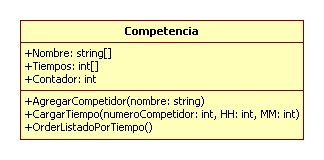
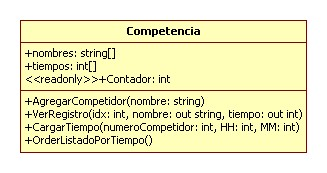
correccion ejercicio 1

Changed region(s): [[0.0617, 0.0938, 0.9568, 0.9062]]

diff --git a/Guia12.2/Ejercicio1_Rally/Models/Competencia.cs b/Guia12.2/Ejercicio1_Rally/Models/Competencia.cs
@@ -8,19 +8,35 @@ namespace Ejercicio1_Rally.Models
 {
     public class Competencia
     {
-        public string[] Nombres = new string[100];
-        public int [] Tiempos= new int[100];
-        public int Contador = 0;
+        string[] nombres = new string[100];
+        int [] tiempos= new int[100];
+        public int Contador { get; private set; }
+
+        public Competencia()
+        {
+            Contador = 0;
+        }
+
+        public void VerRegistro(int idx,out string nombre,out int tiempo)
+        {
+            tiempo = 0;
+            nombre = "";
+            if (idx >= 0 && idx < Contador)
+            {
+                nombre = nombres[idx];
+                tiempo = tiempos[idx];
+            }
+        }
 
         public void AgregarCompetidor(string nombre)
         {
-            Nombres[Contador] = nombre;
+            nombres[Contador] = nombre;
             Contador++;
         }
 
         public void CargarTiempo(int numeroCompetidor, int HH, int MM)
         {
-            Tiempos[numeroCompetidor] = HH*60+MM;
+            tiempos[numeroCompetidor] = HH*60+MM;
         }
 
         public void OrderListadoPorTiempo()
@@ -29,18 +45,23 @@ namespace Ejercicio1_Rally.Models
             {
                 for (int sig = act+1; sig < Contador; sig++)
                 {
-                    if (Tiempos[act] > Tiempos[sig])
+                    if (tiempos[act] > tiempos[sig])
                     {
-                        string nombre = Nombres[act];
-                        Nombres[act] = Nombres[sig];
-                        Nombres[sig] = nombre;
-
-                        int tiempo = Tiempos[act];
-                        Tiempos[act] = Tiempos[sig];
-                        Tiempos[sig] = tiempo;
+                        Intercambiar(act, sig);
                     }
                 }
             }
+        }
+
+        void Intercambiar(int act, int sig)
+        {
+            string nombre = nombres[act];
+            nombres[act] = nombres[sig];
+            nombres[sig] = nombre;
+
+            int tiempo = tiempos[act];
+            tiempos[act] = tiempos[sig];
+            tiempos[sig] = tiempo;
         }
     }
 }

diff --git a/Guia12.2/Ejercicio1_Rally/FormPrincipal.cs b/Guia12.2/Ejercicio1_Rally/FormPrincipal.cs
@@ -84,10 +84,14 @@ namespace Ejercicio1_Rally
             fVer.lbxResultados.Items.Clear();
             for (int n = 0; n < competencia.Contador; n++)
             {
-                int tiempo =  competencia.Tiempos[n];
+                int tiempo;
+                string nombre;
+                competencia.VerRegistro(n, out nombre, out tiempo);
+
                 int HH = tiempo / 60;
                 int MM=tiempo % 60;
-                fVer.lbxResultados.Items.Add($"{n:000} - {competencia.Nombres[n]} - {HH:00}:{MM:00}");
+
+                fVer.lbxResultados.Items.Add($"{n:000} - {nombre} - {HH:00}:{MM:00}");
             }
 
             fVer.ShowDialog();

diff --git a/Guia12.2/Ejercicio1_Rally/FormPrincipal.Designer.cs b/Guia12.2/Ejercicio1_Rally/FormPrincipal.Designer.cs
@@ -62,7 +62,7 @@
             this.btnCargarTiempos.Name = "btnCargarTiempos";
             this.btnCargarTiempos.Size = new System.Drawing.Size(202, 52);
             this.btnCargarTiempos.TabIndex = 2;
-            this.btnCargarTiempos.Text = "Cargar Tiempos de competidores";
+            this.btnCargarTiempos.Text = "Cargar tiempos de competidores";
             this.btnCargarTiempos.UseVisualStyleBackColor = true;
             this.btnCargarTiempos.Click += new System.EventHandler(this.btnCargarTiempos_Click);
             // 
